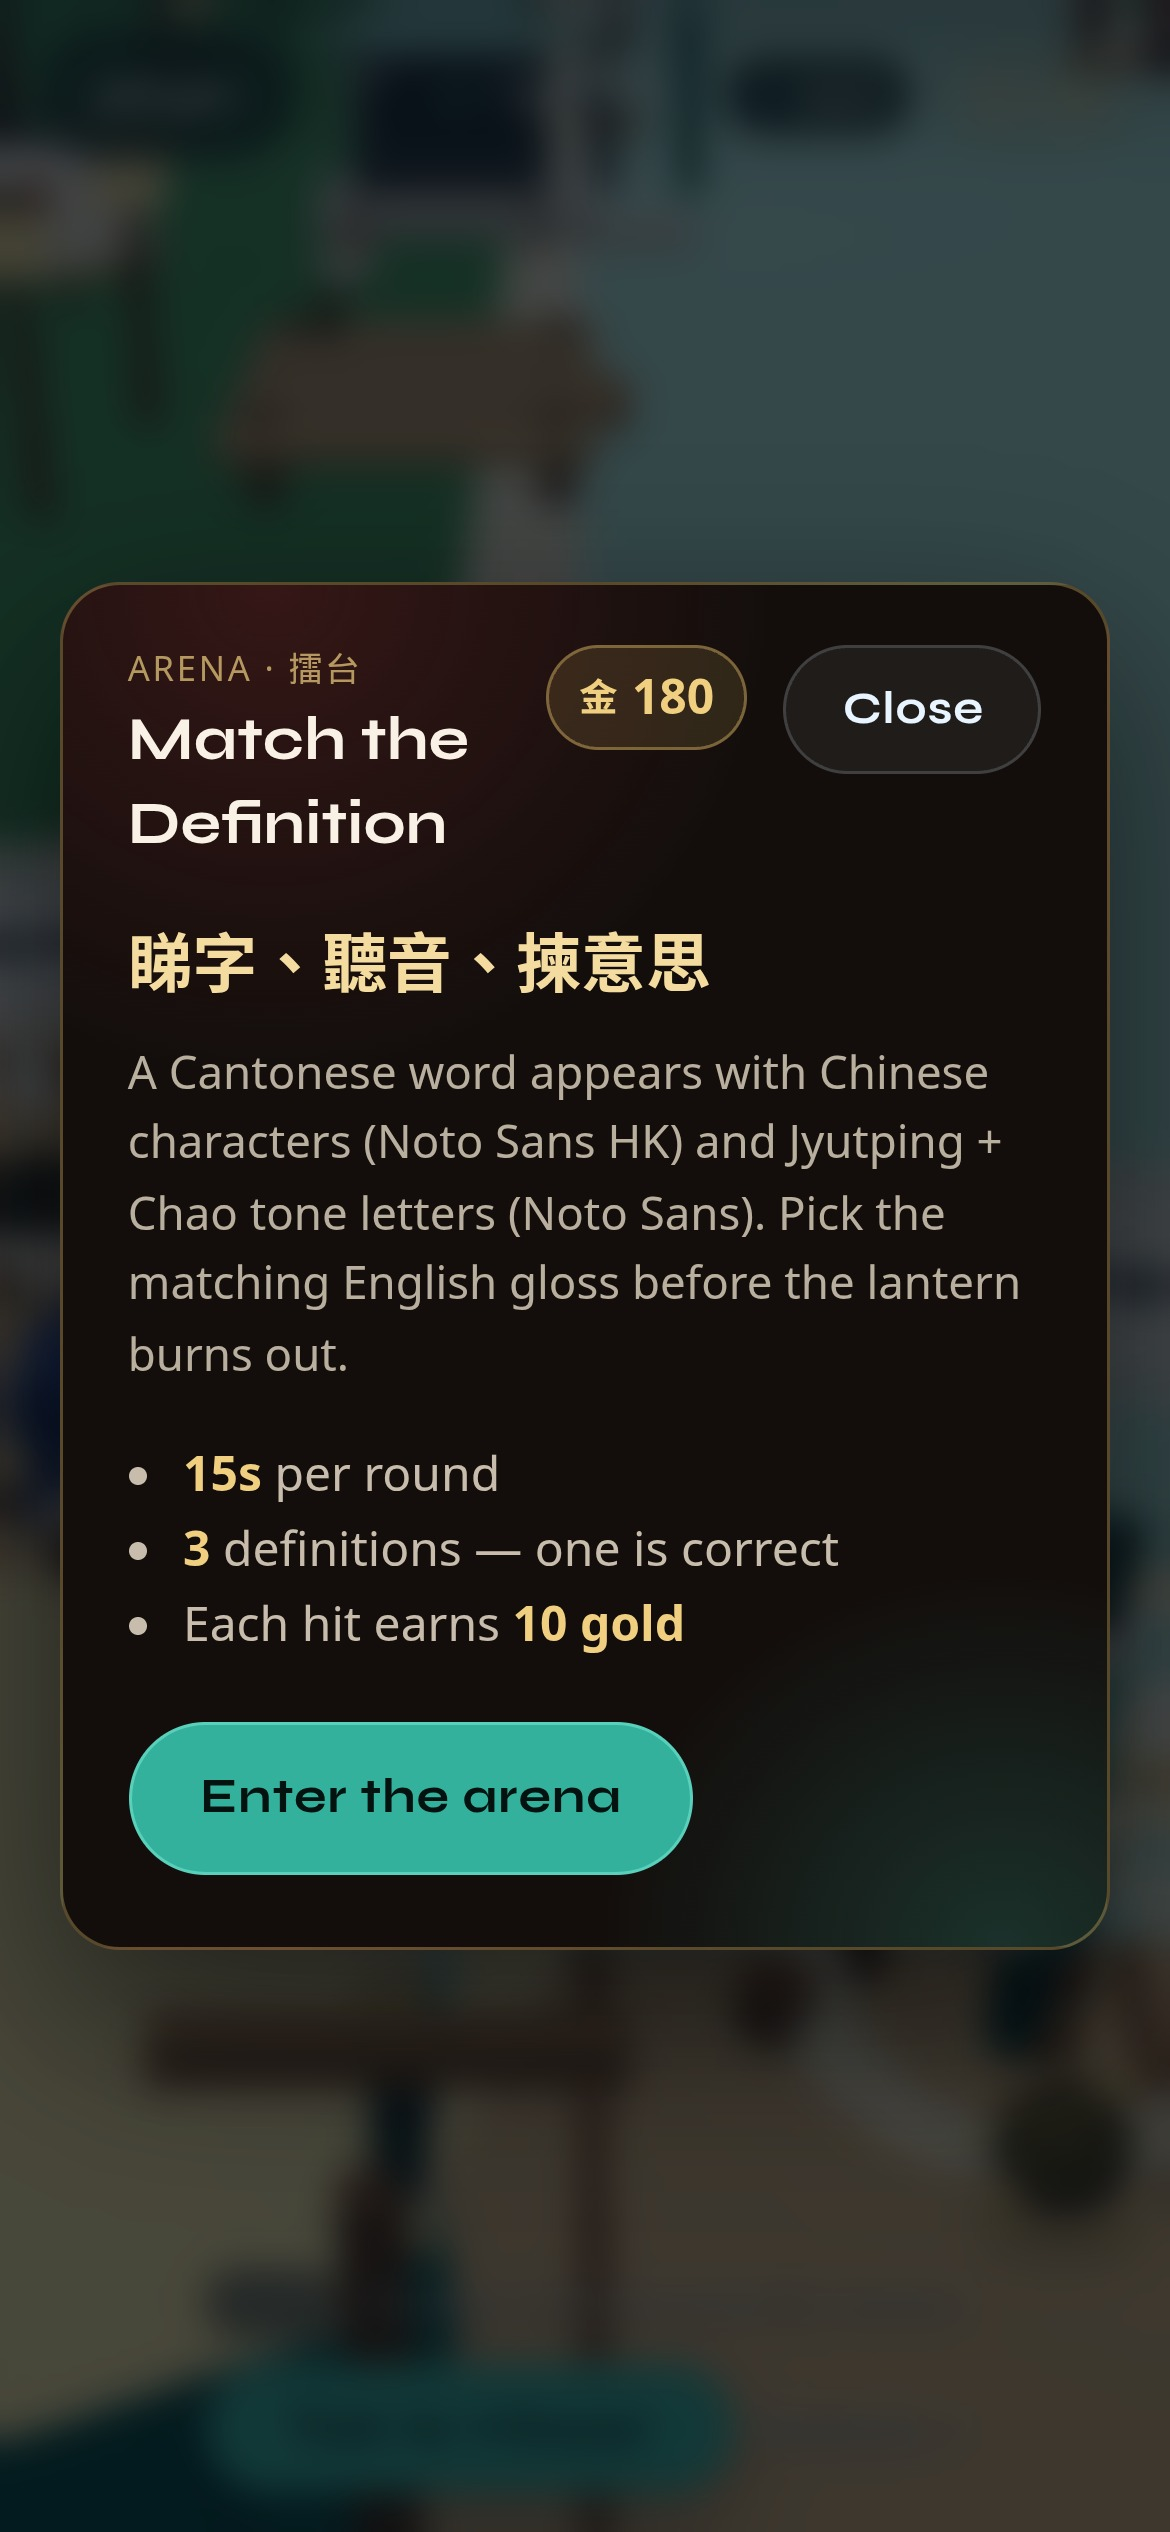
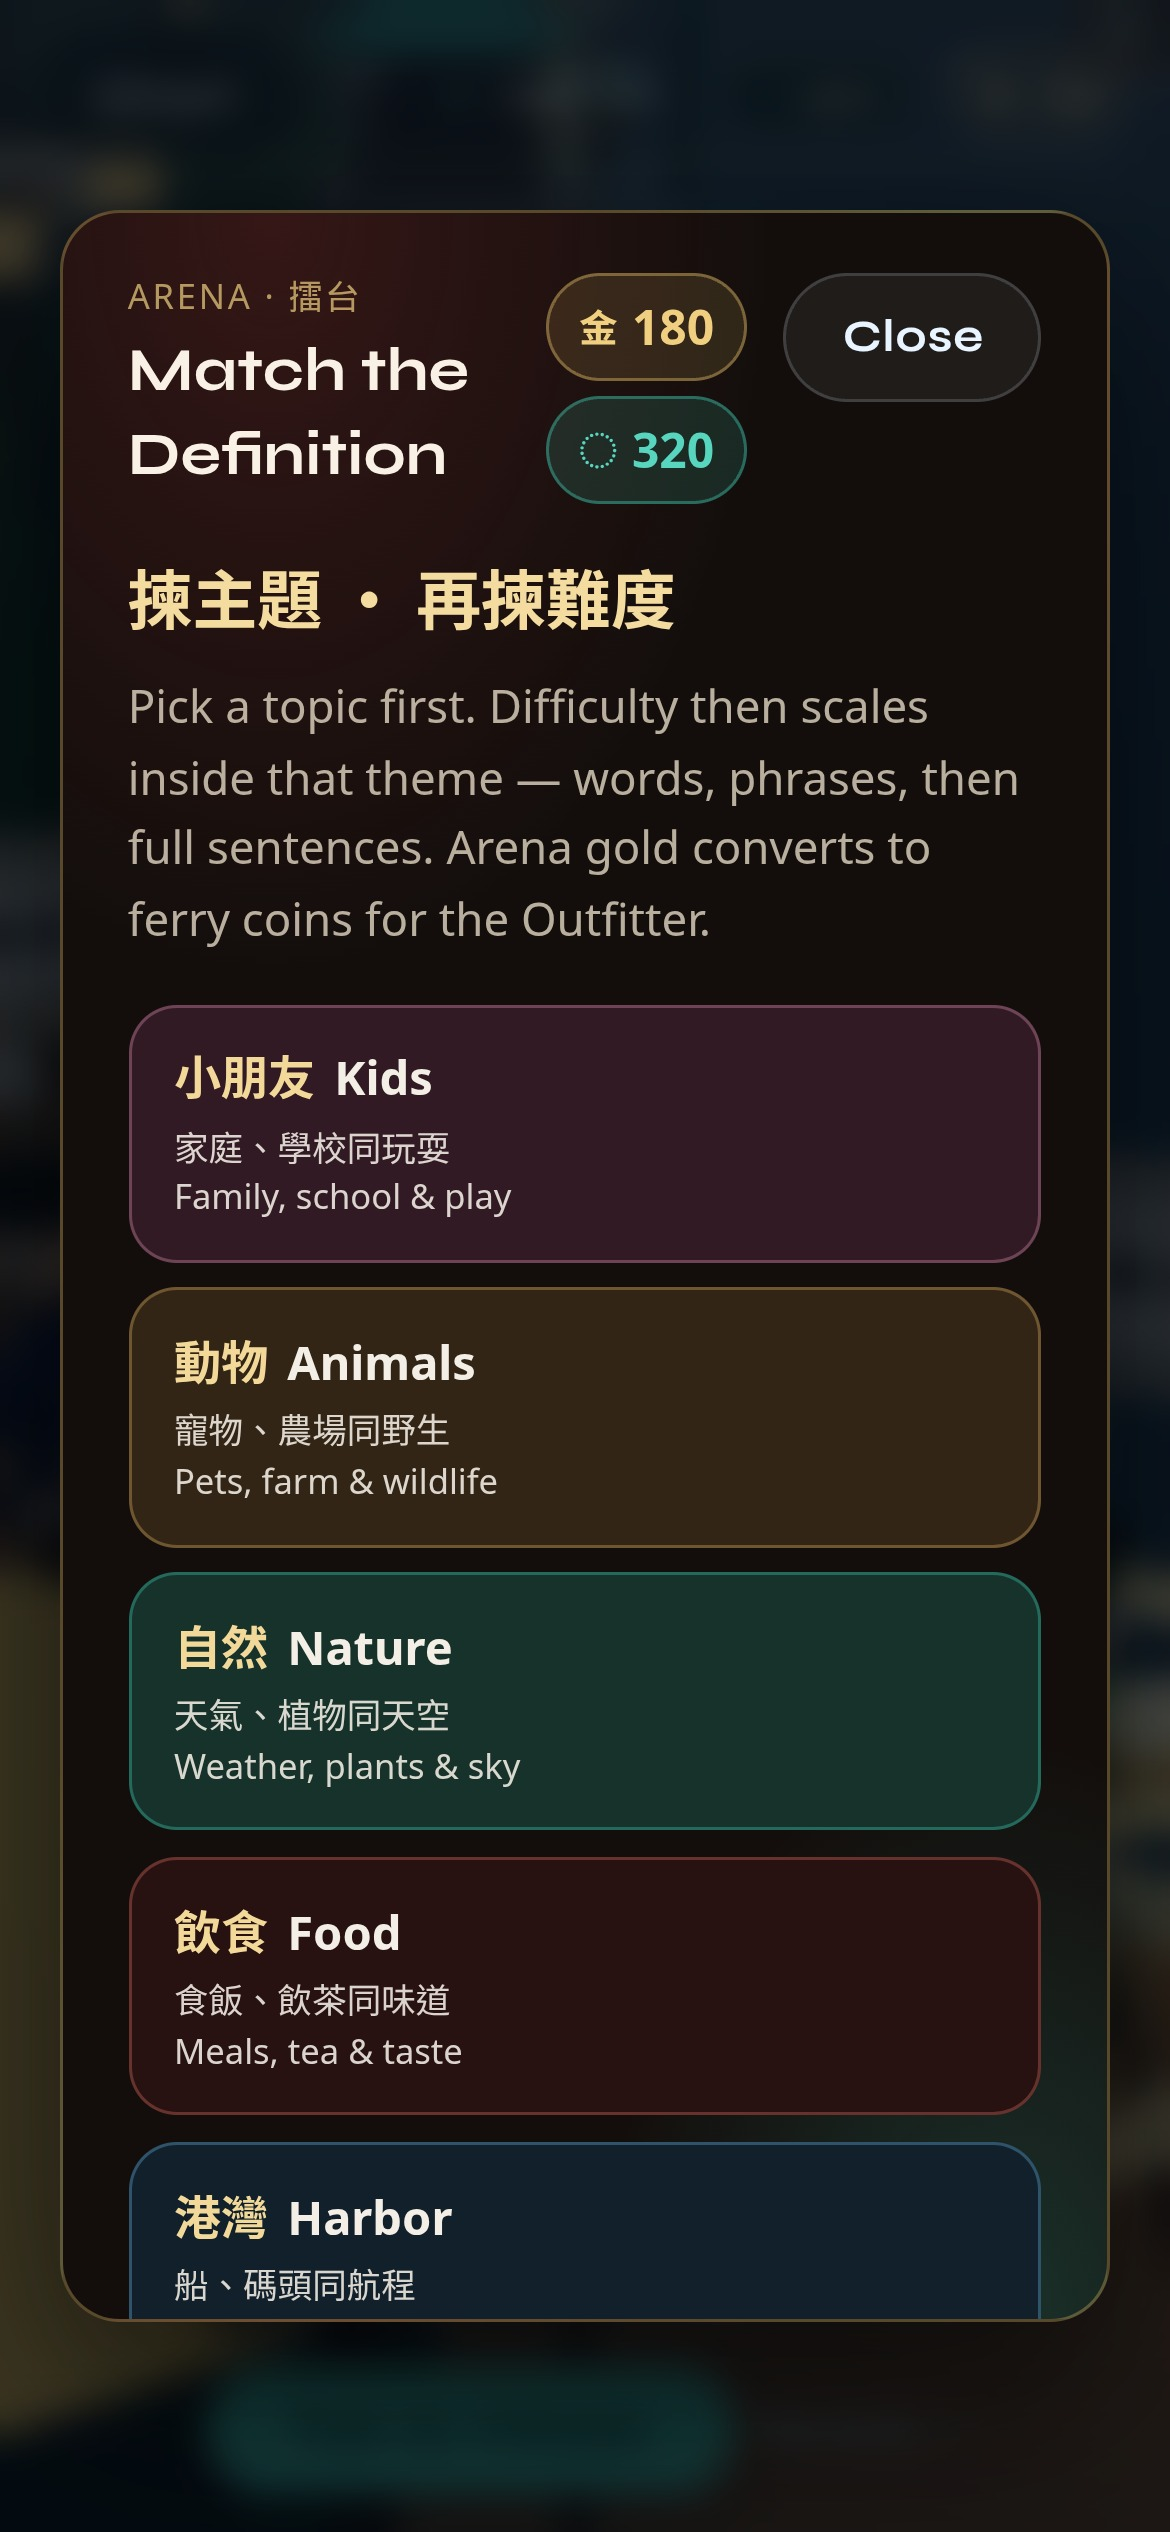
Harbor Quest IG: retake Arena cover peek for topic picker (#529)
Seed character create in capture; refresh cover/slide/story copy off the old 15s taels line.

diff --git a/docs/social/ig-posts/harbor-quest-04-arena.html b/docs/social/ig-posts/harbor-quest-04-arena.html
@@ -3,7 +3,7 @@
   <head>
     <meta charset="UTF-8" />
     <meta name="viewport" content="width=1080" />
-    <title>Arena · Gold taels</title>
+    <title>Arena · Topics & gold</title>
     <link rel="stylesheet" href="./fonts-local.css" />
     <link rel="stylesheet" href="./shared.css" />
     <link rel="stylesheet" href="./harbor-quest.css" />
@@ -18,9 +18,9 @@
       <div class="hq-ig__frame">
         <div class="hq-ig__copy">
           <div class="hq-ig__kicker">Arena · 擂台</div>
-          <h1 class="hq-ig__title">Race for gold taels.</h1>
+          <h1 class="hq-ig__title">Pick a topic. Climb.</h1>
           <p class="hq-ig__sub">
-            Match Chinese to definition — 15 seconds.
+            Words → phrases → sentences — gold converts to ferry coins.
           </p>
         </div>
         <div class="hq-ig__stage">

diff --git a/docs/social/ig-posts/harbor-quest-story-arena.html b/docs/social/ig-posts/harbor-quest-story-arena.html
@@ -13,8 +13,8 @@
       <div class="hq-ig__frame">
         <div class="hq-ig__copy">
           <div class="hq-ig__kicker">Arena · 擂台</div>
-          <h1 class="hq-ig__title">Match Chinese · 15s for gold taels</h1>
-          <p class="hq-ig__sub">See the word · hear it · pick the definition.</p>
+          <h1 class="hq-ig__title">Pick a topic. Climb for gold.</h1>
+          <p class="hq-ig__sub">Words → phrases → sentences · gold becomes ferry coins.</p>
         </div>
         <div class="hq-ig__stage">
           <div class="phone phone--lg">

diff --git a/docs/social/ig-posts/harbor-quest-01-cover.html b/docs/social/ig-posts/harbor-quest-01-cover.html
@@ -54,7 +54,7 @@
             <div class="hq-ig__feature">
               <div class="hq-ig__feature-copy">
                 <h3>Arena · 擂台</h3>
-                <p>Match Chinese to definition — 15 second race for gold taels!</p>
+                <p>Pick a topic, climb difficulty — race for gold that buys ferry gear.</p>
               </div>
               <div class="hq-ig__feature-shot hq-ig__feature-shot--arena">
                 <img src="./source/harbor-quest/03-arena.jpg" alt="" />

diff --git a/docs/social/ig-posts/harbor-quest-06-end.html b/docs/social/ig-posts/harbor-quest-06-end.html
@@ -36,7 +36,7 @@
             </div>
             <div class="hq-ig__feature">
               <h3>Arena · 擂台</h3>
-              <p>Match Chinese to definition — 15 second race for gold taels!</p>
+              <p>Pick a topic, climb difficulty — gold buys ferry gear.</p>
             </div>
             <div class="hq-ig__feature">
               <h3>Chart · 航圖</h3>

diff --git a/docs/social/ig-posts/harbor-quest-story-end.html b/docs/social/ig-posts/harbor-quest-story-end.html
@@ -31,7 +31,7 @@
             </div>
             <div class="hq-ig__feature">
               <h3>Arena · 擂台</h3>
-              <p>Match Chinese to definition — 15s for gold taels!</p>
+              <p>Pick a topic, climb difficulty — gold buys ferry gear.</p>
             </div>
             <div class="hq-ig__feature">
               <h3>Chart · 航圖</h3>

diff --git a/docs/social/ig-posts/harbor-quest.css b/docs/social/ig-posts/harbor-quest.css
@@ -373,9 +373,9 @@
 }
 
 .hq-ig__feature-shot--arena img {
-  /* Frame Match the Definition intro: title → rules → Enter */
-  object-position: center 38%;
-  transform: scale(1.05);
+  /* Frame topic-picker intro: lead + Kids/Animals topics */
+  object-position: center 28%;
+  transform: scale(1.08);
 }
 
 .hq-ig__feature-shot--chart img {
